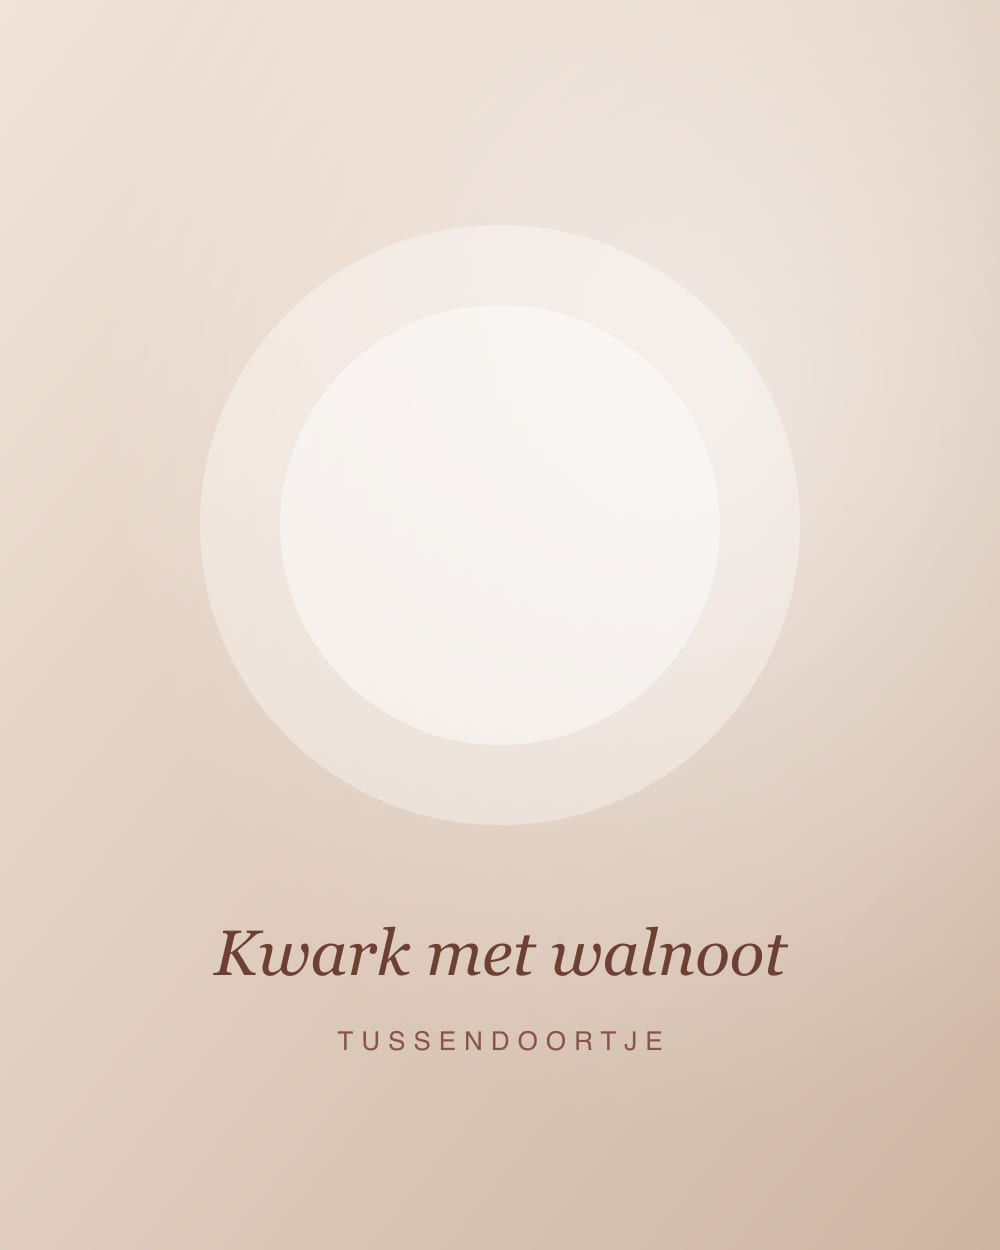
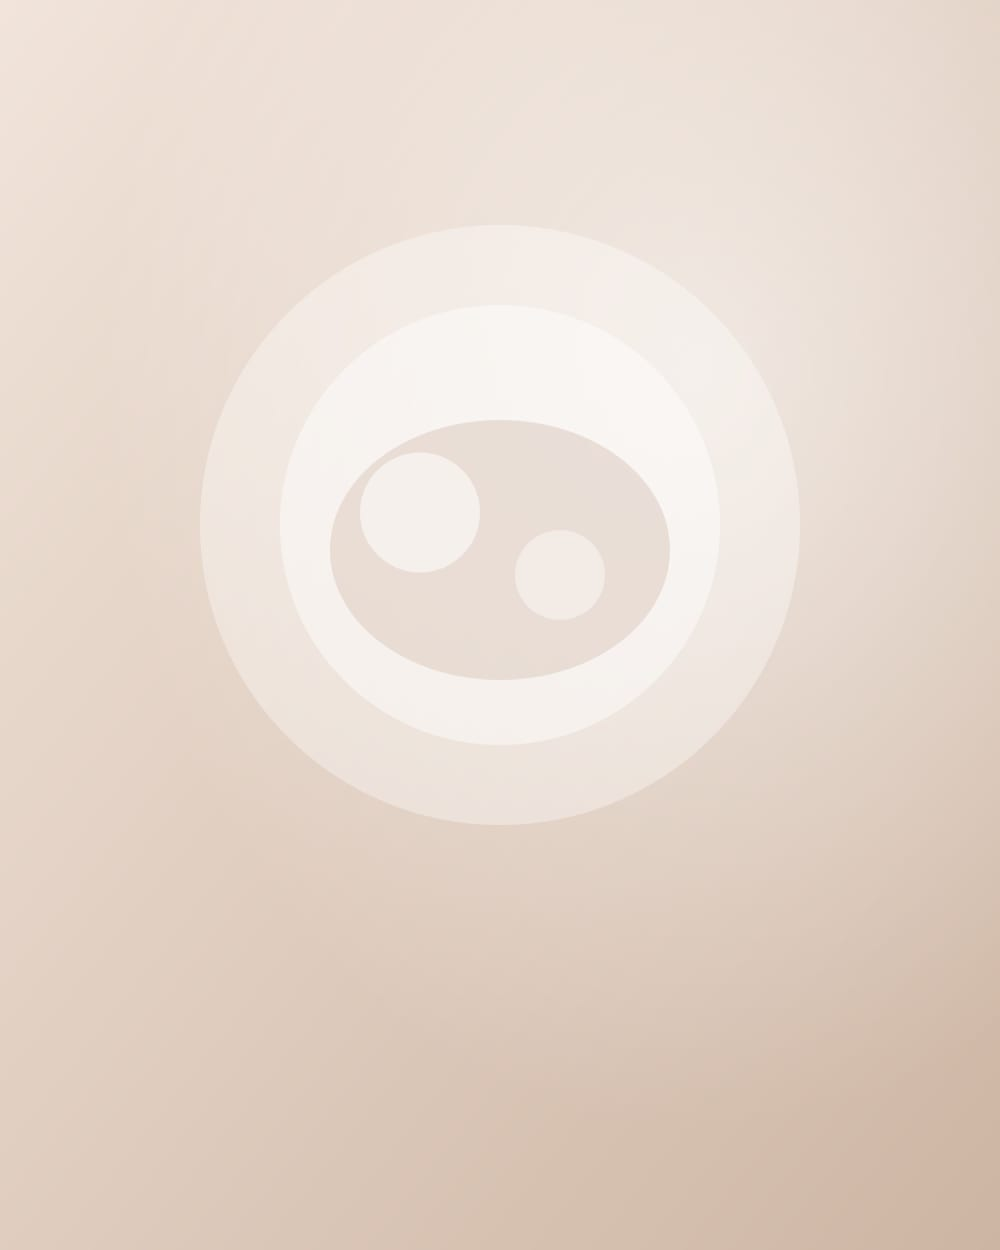
Recipe placeholders without baked-in text; static recipe in demo data

Changed region(s): [[0.31, 0.312, 0.682, 0.5616], [0.217, 0.7488, 0.806, 0.78], [0.341, 0.8112, 0.651, 0.8424]]

diff --git a/src/lib/demo/seed.ts b/src/lib/demo/seed.ts
@@ -73,6 +73,7 @@ export function buildSeed(): Store {
     { id: demoId(), challenge_id: DEMO_CHALLENGE_ID, user_id: SAM, title: "Protein Pancakes 🥞", description: "Snel ontbijt met veel eiwit. Perfect na een ochtendtraining.", ingredients: "200 g magere kwark\n2 eieren\n50 g havermout\n1 banaan\nSnuf kaneel", instructions: "Alles mixen tot een glad beslag. Bak kleine pannenkoekjes in een hete pan met een beetje olie, twee minuten per kant.", category: "Ontbijt", protein_grams: 38, image_path: "demo/recipe-pancakes.jpg", created_at: iso(d(8), 8), updated_at: iso(d(8), 8) },
     { id: demoId(), challenge_id: DEMO_CHALLENGE_ID, user_id: ALEX, title: "Chicken Rice Bowl 🥑", description: "Meal prep voor drie dagen. Kip, rijst, avocado en veel groente.", ingredients: "500 g kipfilet\n300 g basmatirijst\n2 avocado's\n1 komkommer\n200 g edamame\nSojasaus en sesam", instructions: "Kip kruiden en grillen. Rijst koken. Alles in bakjes verdelen, avocado er pas op de dag zelf bij.", category: "Middageten", protein_grams: 45, image_path: "demo/recipe-bowl.jpg", created_at: iso(d(5), 12), updated_at: iso(d(5), 12) },
     { id: demoId(), challenge_id: DEMO_CHALLENGE_ID, user_id: DEMO_USER_ID, title: "High Protein Pasta 🍝", description: "Comfort food die toch in de Winter Arc past.", ingredients: "100 g linzenpasta\n150 g rundergehakt (mager)\n200 g passata\n1 ui, 2 tenen knoflook\nCottage cheese", instructions: null, category: "Avondeten", protein_grams: 52, image_path: "demo/recipe-pasta.jpg", created_at: iso(d(3), 18), updated_at: iso(d(3), 18) },
+    { id: demoId(), challenge_id: DEMO_CHALLENGE_ID, user_id: DEMO_USER_ID, title: "Overnight oats met skyr en blauwe bessen", description: "Vijf minuten werk de avond ervoor.", ingredients: "60 g havermout\n150 g skyr", instructions: null, category: "Ontbijt", protein_grams: 28, image_path: "static:/recipes/overnight-oats.jpg", created_at: iso(d(2), 7), updated_at: iso(d(2), 7) },
     { id: demoId(), challenge_id: DEMO_CHALLENGE_ID, user_id: NOOR, title: "Greek Yogurt Breakfast 🍓", description: "Mijn vaste ontbijt. Twee minuten werk.", ingredients: "250 g Griekse yoghurt 0%\n100 g aardbeien\n20 g walnoten\n1 el honing", instructions: null, category: "Ontbijt", protein_grams: 27, image_path: "demo/recipe-yogurt.jpg", created_at: iso(d(1), 7, 30), updated_at: iso(d(1), 7, 30) },
   ];
 
